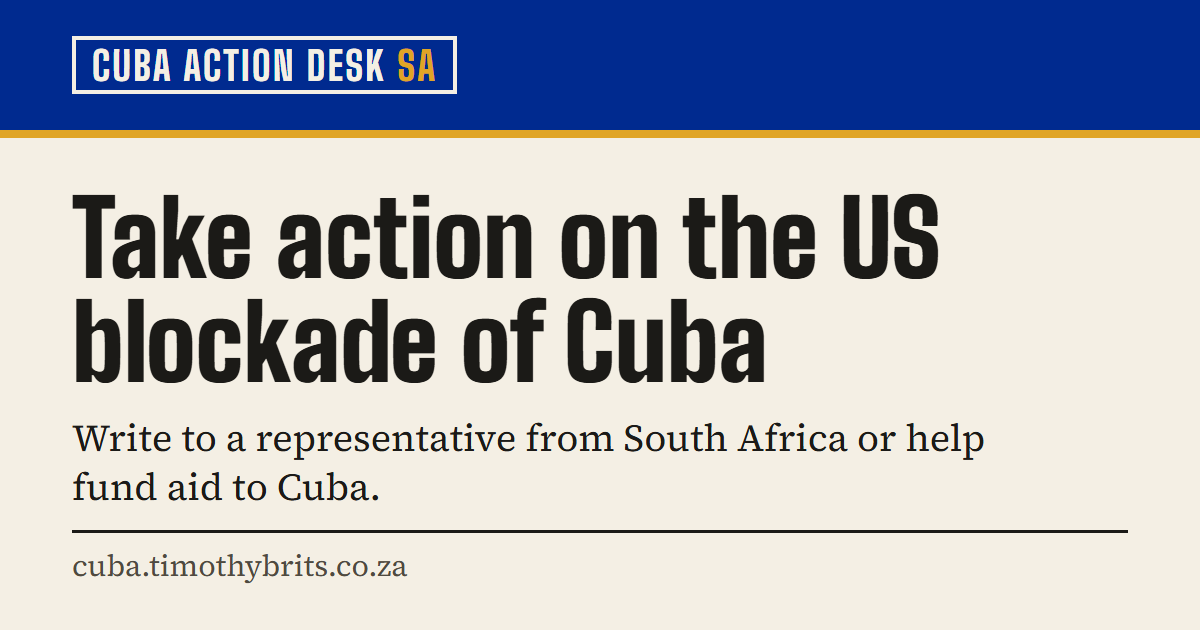
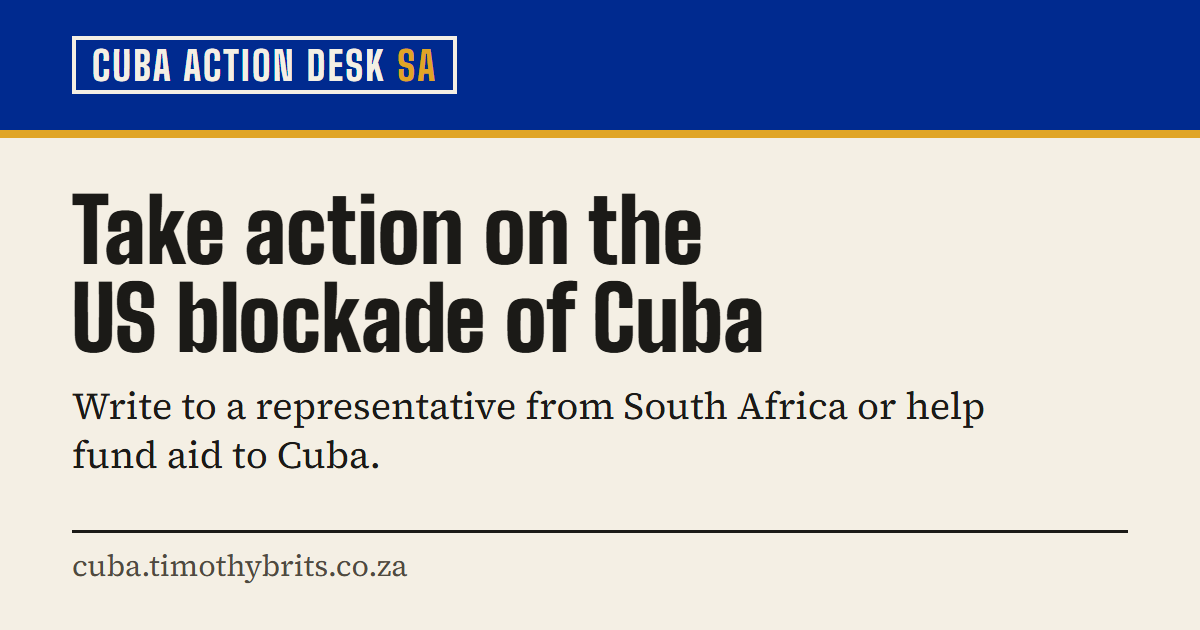
feat: polish page hierarchy and sharing
Add above-the-fold actions, compact donation cautions, balanced article reading columns, and page-specific social previews.

Changed region(s): [[0.0617, 0.3016, 0.8325, 0.8143]]

diff --git a/scripts/build-images.ts b/scripts/build-images.ts
@@ -7,6 +7,7 @@ import { join } from "node:path";
 import { pathToFileURL } from "node:url";
 import { chromium } from "@playwright/test";
 import sharp from "sharp";
+import { loadSiteContent } from "../src/lib/content-files.ts";
 import { SITE, siteUrl } from "../src/lib/site.ts";
 
 const root = join(import.meta.dirname, "..");
@@ -40,12 +41,13 @@ h1 { font-weight: 900; line-height: 1; }
 .host { color: ${INK_SOFT}; }`;
 
 function og(title: string, text: string): string {
+  const titleSize = title.length > 45 ? 72 : title.length > 30 ? 88 : 104;
   return `<style>${BASE_CSS}
 body { width: 1200px; height: 630px; }
 .band { padding: 36px 72px; }
 .stamp { font-size: 40px; }
 main { flex: 1; display: flex; flex-direction: column; justify-content: space-between; padding: 48px 72px 44px; }
-h1 { font-size: 104px; max-width: 1040px; }
+h1 { font-size: ${titleSize}px; max-width: 1040px; text-wrap: balance; }
 p { font-size: 38px; line-height: 1.3; max-width: 980px; margin-top: 20px; }
 .host { font-size: 30px; border-top: 3px solid ${INK}; padding-top: 12px; }</style>
 <body><div class="band">${stamp}</div>
@@ -106,6 +108,24 @@ const images = [
   },
   { file: "cards/sa-and-cuba-in-60-seconds.png", width: 1080, height: 1350, html: card() },
 ];
+
+const content = loadSiteContent();
+for (const entry of content.set.articles.filter((article) => article.data.status === "live")) {
+  images.push({
+    file: `og/learn/${entry.id}.png`,
+    width: 1200,
+    height: 630,
+    html: og(entry.data.title, entry.data.summary),
+  });
+}
+for (const entry of content.set.actions.filter((action) => action.data.status === "live")) {
+  images.push({
+    file: `og/act/${entry.id}.png`,
+    width: 1200,
+    height: 630,
+    html: og(entry.data.title, entry.data.summary),
+  });
+}
 
 const browser = await chromium.launch();
 const work = mkdtempSync(join(tmpdir(), "cad-images-"));

diff --git a/src/styles/home.module.css b/src/styles/home.module.css
@@ -3,11 +3,26 @@
   margin-bottom: var(--space-5);
 }
 
+.start {
+  display: flex;
+  flex-wrap: wrap;
+  align-items: center;
+  gap: var(--space-2) var(--space-5);
+  margin: var(--space-5) 0 var(--space-6);
+}
+
+.start > a:not([data-variant]) {
+  display: inline-flex;
+  align-items: center;
+  min-height: var(--target);
+  font-weight: 600;
+}
+
 /* Letters-page layout: the featured letter takes two thirds, a ruled column of other actions the rest. */
 .desk {
   display: grid;
   gap: var(--space-7);
-  margin: var(--space-7) 0;
+  margin: var(--space-6) 0 var(--space-7);
   padding-top: var(--space-4);
   border-top: 3px solid var(--rule-heavy);
 }
@@ -31,12 +46,12 @@
 .stamp {
   display: inline-block;
   margin: 0 0 var(--space-4);
-  padding: 0.2em 0.5em 0.1em;
-  border: 3px solid currentColor;
+  padding: 0.25em 0.55em 0.2em;
+  border: 2px solid currentColor;
   color: var(--accent);
   font-family: var(--font-display);
   font-weight: 800;
-  font-size: var(--step-1);
+  font-size: var(--step-small);
   line-height: 1.1;
   letter-spacing: 0.02em;
   text-transform: uppercase;

diff --git a/tests/e2e/server.spec.ts b/tests/e2e/server.spec.ts
@@ -94,6 +94,19 @@ test.describe("Markdown for AI readers", () => {
   });
 });
 
+test("article and action pages have page-specific share previews", async ({ request }) => {
+  for (const [path, image] of [
+    ["/learn/un-votes", "/og/learn/un-votes.png"],
+    [ACTION_PATH, "/og/act/ask-your-mp-un-vote.png"],
+  ]) {
+    const html = await (await request.get(path)).text();
+    expect(html, path).toContain(`property="og:image" content="https://cuba.timothybrits.co.za${image}"`);
+    const preview = await request.get(image);
+    expect(preview.status(), image).toBe(200);
+    expect(preview.headers()["content-type"], image).toContain("image/png");
+  }
+});
+
 test.describe("headers and policy", () => {
   test("server-rendered, negotiated and static responses all carry the security headers", async ({ request }) => {
     for (const path of [ACTION_PATH, "/give", "/api/health", "/learn/un-votes", "/about", "/learn/un-votes.md"]) {

diff --git a/tests/e2e/smoke.spec.ts b/tests/e2e/smoke.spec.ts
@@ -73,6 +73,19 @@ test("the skip link is the first focusable element and moves focus to the main c
   await expect(page.locator("main")).toBeFocused();
 });
 
+test("the home page puts a primary action in the first mobile screen", async ({ page }) => {
+  await page.goto("/");
+  await expect(page.getByRole("link", { name: "Start a message" })).toBeInViewport();
+});
+
+test("an Action Desk links straight to the message editor", async ({ page }) => {
+  await page.goto(ACTION_PATH);
+  const start = page.getByRole("link", { name: "Start the message" });
+  await expect(start).toBeInViewport();
+  await start.click();
+  await expect(page.getByRole("heading", { name: "1. Fill in the blanks" })).toBeInViewport();
+});
+
 test("the bottom nav is on screen, 56px tall, has four labelled links, and marks the current page", async ({
   page,
 }) => {

diff --git a/src/styles/prose.module.css b/src/styles/prose.module.css
@@ -22,6 +22,10 @@
   margin-bottom: var(--space-4);
 }
 
+.quickAction {
+  margin: var(--space-5) 0 var(--space-6);
+}
+
 .target {
   max-width: var(--measure);
   margin-bottom: var(--space-6);
@@ -29,6 +33,34 @@
 
 .article {
   max-width: var(--measure);
+  margin-inline: auto;
+}
+
+.cautions {
+  max-width: var(--measure);
+  margin: 0 0 var(--space-6);
+  padding: var(--space-1) 0 var(--space-1) var(--space-4);
+  border-left: 6px solid var(--gold);
+}
+
+.cautions h2 {
+  margin: 0 0 var(--space-2);
+  padding: 0;
+  border: 0;
+  font-size: var(--step-2);
+}
+
+.cautions p,
+.cautions ul {
+  margin-bottom: var(--space-2);
+  font-size: var(--step-small);
+}
+
+.cautions summary {
+  min-height: var(--target);
+  padding: var(--space-2) 0;
+  cursor: pointer;
+  font-weight: 600;
 }
 
 .meta {

diff --git a/tests/e2e/layout.spec.ts b/tests/e2e/layout.spec.ts
@@ -22,11 +22,10 @@ test("the Action Desk is two columns with a sticky send panel", async ({ page })
 
 test("articles stay a readable single column, under 70 characters wide", async ({ page }) => {
   await page.goto("/learn/what-is-the-blockade");
-  const width = await page
-    .locator("article")
-    .first()
-    .evaluate((el) => el.getBoundingClientRect().width);
-  expect(width).toBeLessThan(900);
+  const box = (await page.locator("article").first().boundingBox())!;
+  const main = (await page.locator("main").boundingBox())!;
+  expect(box.width).toBeLessThan(900);
+  expect(Math.abs(box.x - main.x - (main.width - box.width) / 2)).toBeLessThan(2);
 });
 
 test("the image send panel stays in normal flow on a short desktop screen", async ({ page }) => {

diff --git a/tests/e2e/give.spec.ts b/tests/e2e/give.spec.ts
@@ -46,6 +46,8 @@ test("payment cautions come before organisations or the empty notice", async ({ 
   const advice = (await caveats.boundingBox())!;
   const listing = (await first.boundingBox())!;
   expect(advice.y + advice.height).toBeLessThanOrEqual(listing.y);
+  expect(advice.height).toBeLessThan(180);
+  await expect(caveats.getByText("Full donation cautions")).toBeVisible();
 });
 
 test("with no approved listings Give shows the empty state and still explains payments", async ({ page }) => {

diff --git a/src/components/ActionDesk.module.css b/src/components/ActionDesk.module.css
@@ -1,6 +1,7 @@
 .desk {
   display: grid;
   gap: var(--space-6);
+  scroll-margin-top: var(--space-5);
 }
 
 .compose,

diff --git a/docs/ARCHITECTURE.md b/docs/ARCHITECTURE.md
@@ -118,8 +118,8 @@ accessibility, best practices and SEO, and at least 95 for performance, with lay
 run, desktop scored 100 everywhere and mobile scored 99 or 100 for performance. Performance is allowed some slack because
 total blocking time depends on the machine running the test. The Learn pages are text-only, so the largest element is a
 heading or the intro paragraph. The fonts are Source Serif 4 for text and Big Shoulders Display for headings,
-Latin subsets cut to the weights in use and self-hosted from `src/assets/fonts`, with metric-matched fallbacks. Only the
-display face is preloaded.
+Latin subsets cut to the weights in use and self-hosted from `src/assets/fonts`, with metric-matched fallbacks. Both
+faces are preloaded because the body text is the main content and swapping it was causing visible layout shift.
 
 Lighthouse skips one audit, the robots.txt check, because it does not recognise the `Content-Signal` line that tells AI
 crawlers they may use the site.
